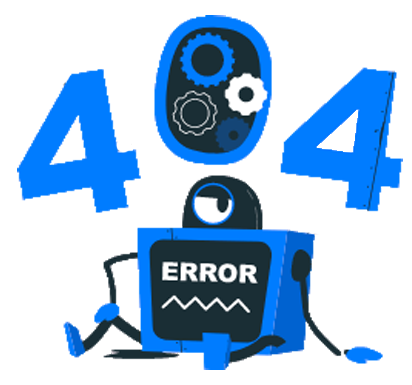
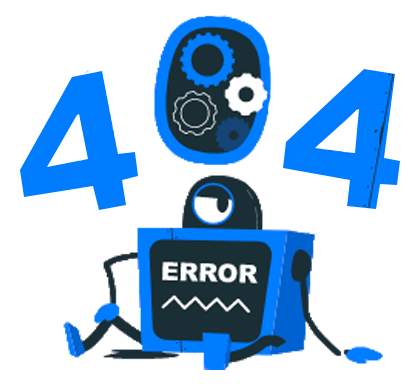
modifique la pagina de error404 y la termine

diff --git a/error404.html b/error404.html
@@ -13,18 +13,128 @@
   <!-- CSS -->
   <link rel="stylesheet" href="/css/style.css">
   <link rel="shortcut icon" href="/img/peliculas-series/img-logo-favicon.png" type="image/x-icon">
+
 </head>
 <body class="bg-white">
-    <div class="container d-flex my-5">
-        <div class="row">
-            <div class="col-lg-6 col-sm-12">
-                <h2> <b>404.</b> That's an error</h2>
-                <h3>The requested URL was not fount on this server. <span class="text-black-50">That's all know</span> </h3>
+        <!-- Navbar -->
+        <nav class="navbar navbar-expand-lg bg-body-tertiary">
+            <div class="container-fluid">
+                <a class="navbar-brand" href="#"><img src="/img/peliculas-series/img-logo.png" alt="logo-pag"
+                        width="200px"></a>
+                <button class="navbar-toggler" type="button" data-bs-toggle="collapse"
+                    data-bs-target="#navbarSupportedContent" aria-controls="navbarSupportedContent" aria-expanded="false"
+                    aria-label="Toggle navigation">
+                    <span class="navbar-toggler-icon"></span>
+                </button>
+                <div class="collapse navbar-collapse" id="navbarSupportedContent">
+                    <ul class="navbar-nav me-auto mb-2 mb-lg-0">
+                        <li class="nav-item">
+                            <a class="nav-link" aria-current="page" href="/index.html">Inicio</a>
+                        </li>
+                        <li class="nav-item">
+                            <a class="nav-link" href="peliculas.html">Películas</a>
+                        </li>
+                        </li>
+                        <li class="nav-item">
+                            <a class="nav-link" href="series.html">Series</a>
+                        </li>
+                        <li class="nav-item">
+                            <a class="nav-link" href="/suscripcion.html">Planes</a>
+                        </li>
+                    </ul>
+                    <form class="d-flex" role="search">
+                        <input class="form-control me-2" type="search" placeholder="Buscar película o serie"
+                            aria-label="Search" pattern=".{0,20}" maxlength="20">
+                        <button class="btn btn-outline-light" type="submit"><i
+                                class="fa-solid fa-magnifying-glass"></i></button>
+                    </form>
+                    <br>
+                    <ul class="navbar-nav">
+                        <li class="nav-item ms-4 me-3">
+                            <a class="nav-link" href="/login.html"><i class="fa-solid fa-user fa-xl"></i></a>
+                </div>
+                </ul>
             </div>
-            <div class="col-lg-6 col-sm-12">
-                <img class="float-end" src="/img/peliculas-series/img-error-404.png" alt="">
+        </nav>
+
+        <!--         <div class="container d-flex my-5">
+            <div class="row">
+                <div class="col-lg-6 col-sm-12">
+                    <h2> <b>404.</b> That's an error</h2>
+                    <h3>The requested URL was not fount on this server. <span class="text-black-50">That's all know</span> </h3>
+                </div>
+                <div class="col-lg-6 col-sm-12">
+                    <img class="float-end" src="/img/peliculas-series/img-error-404.png" alt="">
+                </div>
+            </div>
+        </div> -->
+
+        <div class="container my-5">
+            <div class="row">
+                <div class="col-lg-4">
+                    <h2> <b>404.</b> That's an error</h2>
+                    <h3>The requested URL was not fount on this server. <span class="text-black-50">That's all know</span> </h3>
+                    <img class="float-center img-error" src="/img/peliculas-series/img-error-404.png" alt="imagen error">
+                </div>
+                <div class="col-lg-8">
+                    <div class="game-area" id="game-area">
+                        <div><img class="circle" id="circle" src="/img/peliculas-series/img-logo-favicon.png" alt=""></div>
+                    </div>
+                    <p class="mt-4">¿No puedes atraparlo? <a href="/index.html">Volver al inicio</a></p>
+                </div>
+            </div>
+          </div>
+
+          <script>
+            const circle = document.getElementById('circle');
+            const gameArea = document.getElementById('game-area');
+        
+            // Mueve el círculo a una posición aleatoria dentro del área de juego
+            function moveCircle() {
+              const areaWidth = gameArea.clientWidth - circle.offsetWidth;
+              const areaHeight = gameArea.clientHeight - circle.offsetHeight;
+              const randomX = Math.random() * areaWidth;
+              const randomY = Math.random() * areaHeight;
+        
+              circle.style.left = `${randomX}px`;
+              circle.style.top = `${randomY}px`;
+            }
+        
+            // Al hacer clic en el círculo
+            circle.addEventListener('click', function() {
+              moveCircle();
+            });
+        
+            // Mueve el círculo al iniciar la página
+            moveCircle();
+          </script>
+
+
+    <!-- Footer -->
+    <footer>
+        <div class="contenedor_footer container-fluid d-flex bg-dark flex-column">
+            <div class="row justify-content-center align-items-center w-100 p-2">
+                <div class="col-lg-3">
+                    <img src="/img/peliculas-series/img-logo.png" alt="" width="200px">
+                </div>
+                <div class="col-lg-3">
+                    <a href="#"><i class="fa-brands fa-whatsapp fa-xl"></i></a>
+                    <a href="#"><i class="fa-brands fa-instagram fa-xl"></i></a>
+                    <a href="#"><i class="fa-brands fa-twitter fa-xl"></i></a>
+                </div>
+                <div class="col-lg-3">
+                    <a href="/paginadecontacto.html">Contacto</a>
+                </div>
+                <div class="col-lg-3">
+                    <a href="#">Acerca de nosotros</a>
+                </div>
+            </div>
+            <div class="row justify-content-center align-items-center w-100 p-2">
+                <div class="col-lg-12">
+                    <p class="text-center ps-5">Team 3 - Todos los derechos reservados</p>
+                </div>
             </div>
         </div>
-    </div>
+    </footer>
 </body>
 </html>

diff --git a/css/error404.css b/css/error404.css
@@ -1,0 +1,28 @@
+body {
+    text-align: center;
+  }
+  .game-area {
+    position: relative;
+    width: 100%;
+    height: 400px;
+    background-color: #ffffff;
+    border: 4px solid var( --colorPrimarioAzul);
+    margin: 20px auto;
+    max-width: 600px;
+    overflow: hidden;
+  }
+  .circle{
+    width: 70px;
+    height: 70px;
+    position: absolute;
+    cursor: pointer;
+  }
+
+
+@media(max-width: 428px) { /*tengo que tener como maximo 428px para que se apliquen los cambios*/
+    
+    .img-error{
+        width: 300px;
+    }  
+}
+  

diff --git a/css/detalleSerie.css b/css/detalleSerie.css
@@ -59,22 +59,6 @@
 
 
 
-
-
-
-
-
-
-
-
-
-
-
-
-
-
-
-
 /* MEDIAQUERIES*/
 
 @media (max-width: 834px){ /*tengo que tener como maximo 834px para que se apliquen los cambios*/
@@ -90,6 +74,7 @@
 @media(max-width: 428px) { /*tengo que tener como maximo 428px para que se apliquen los cambios*/
     .contenedor_principalSerie{
             background-position: 75%; /* modifico la posicion de la imagen */ 
+            
     }
 
     .contenedor_card{

diff --git a/css/style.css b/css/style.css
@@ -8,4 +8,5 @@
 @import "/css/navbar.css";
 @import "/css/detallePelicula.css";
 @import "/css/detalleSerie.css";
-@import "/css/peliscategorias.css"
+@import "/css/peliscategorias.css";
+@import "/css/error404.css";
